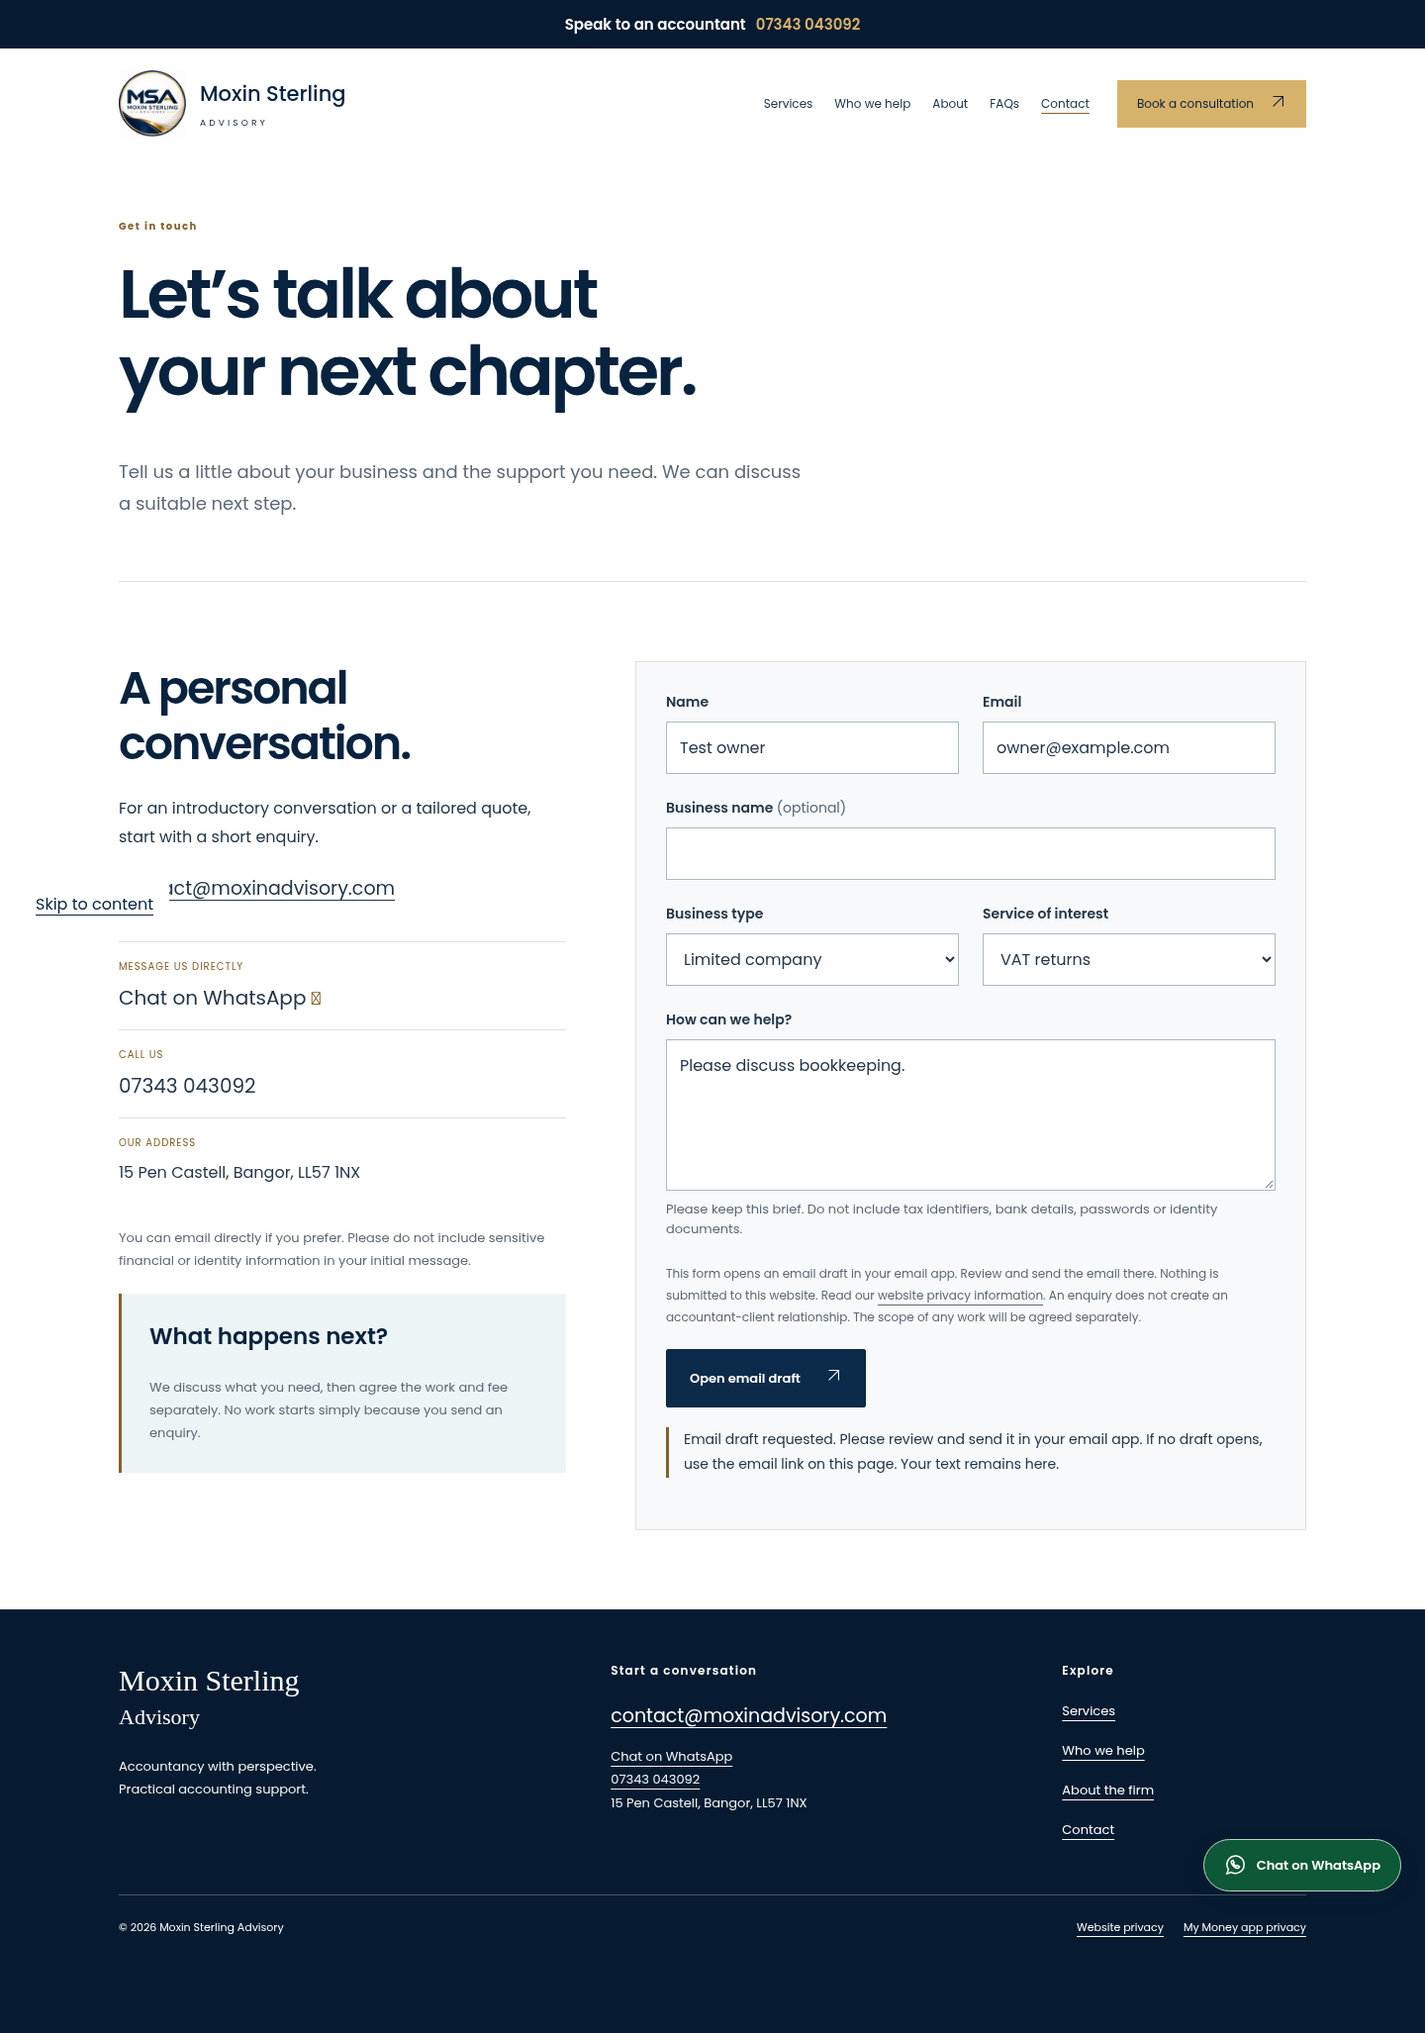
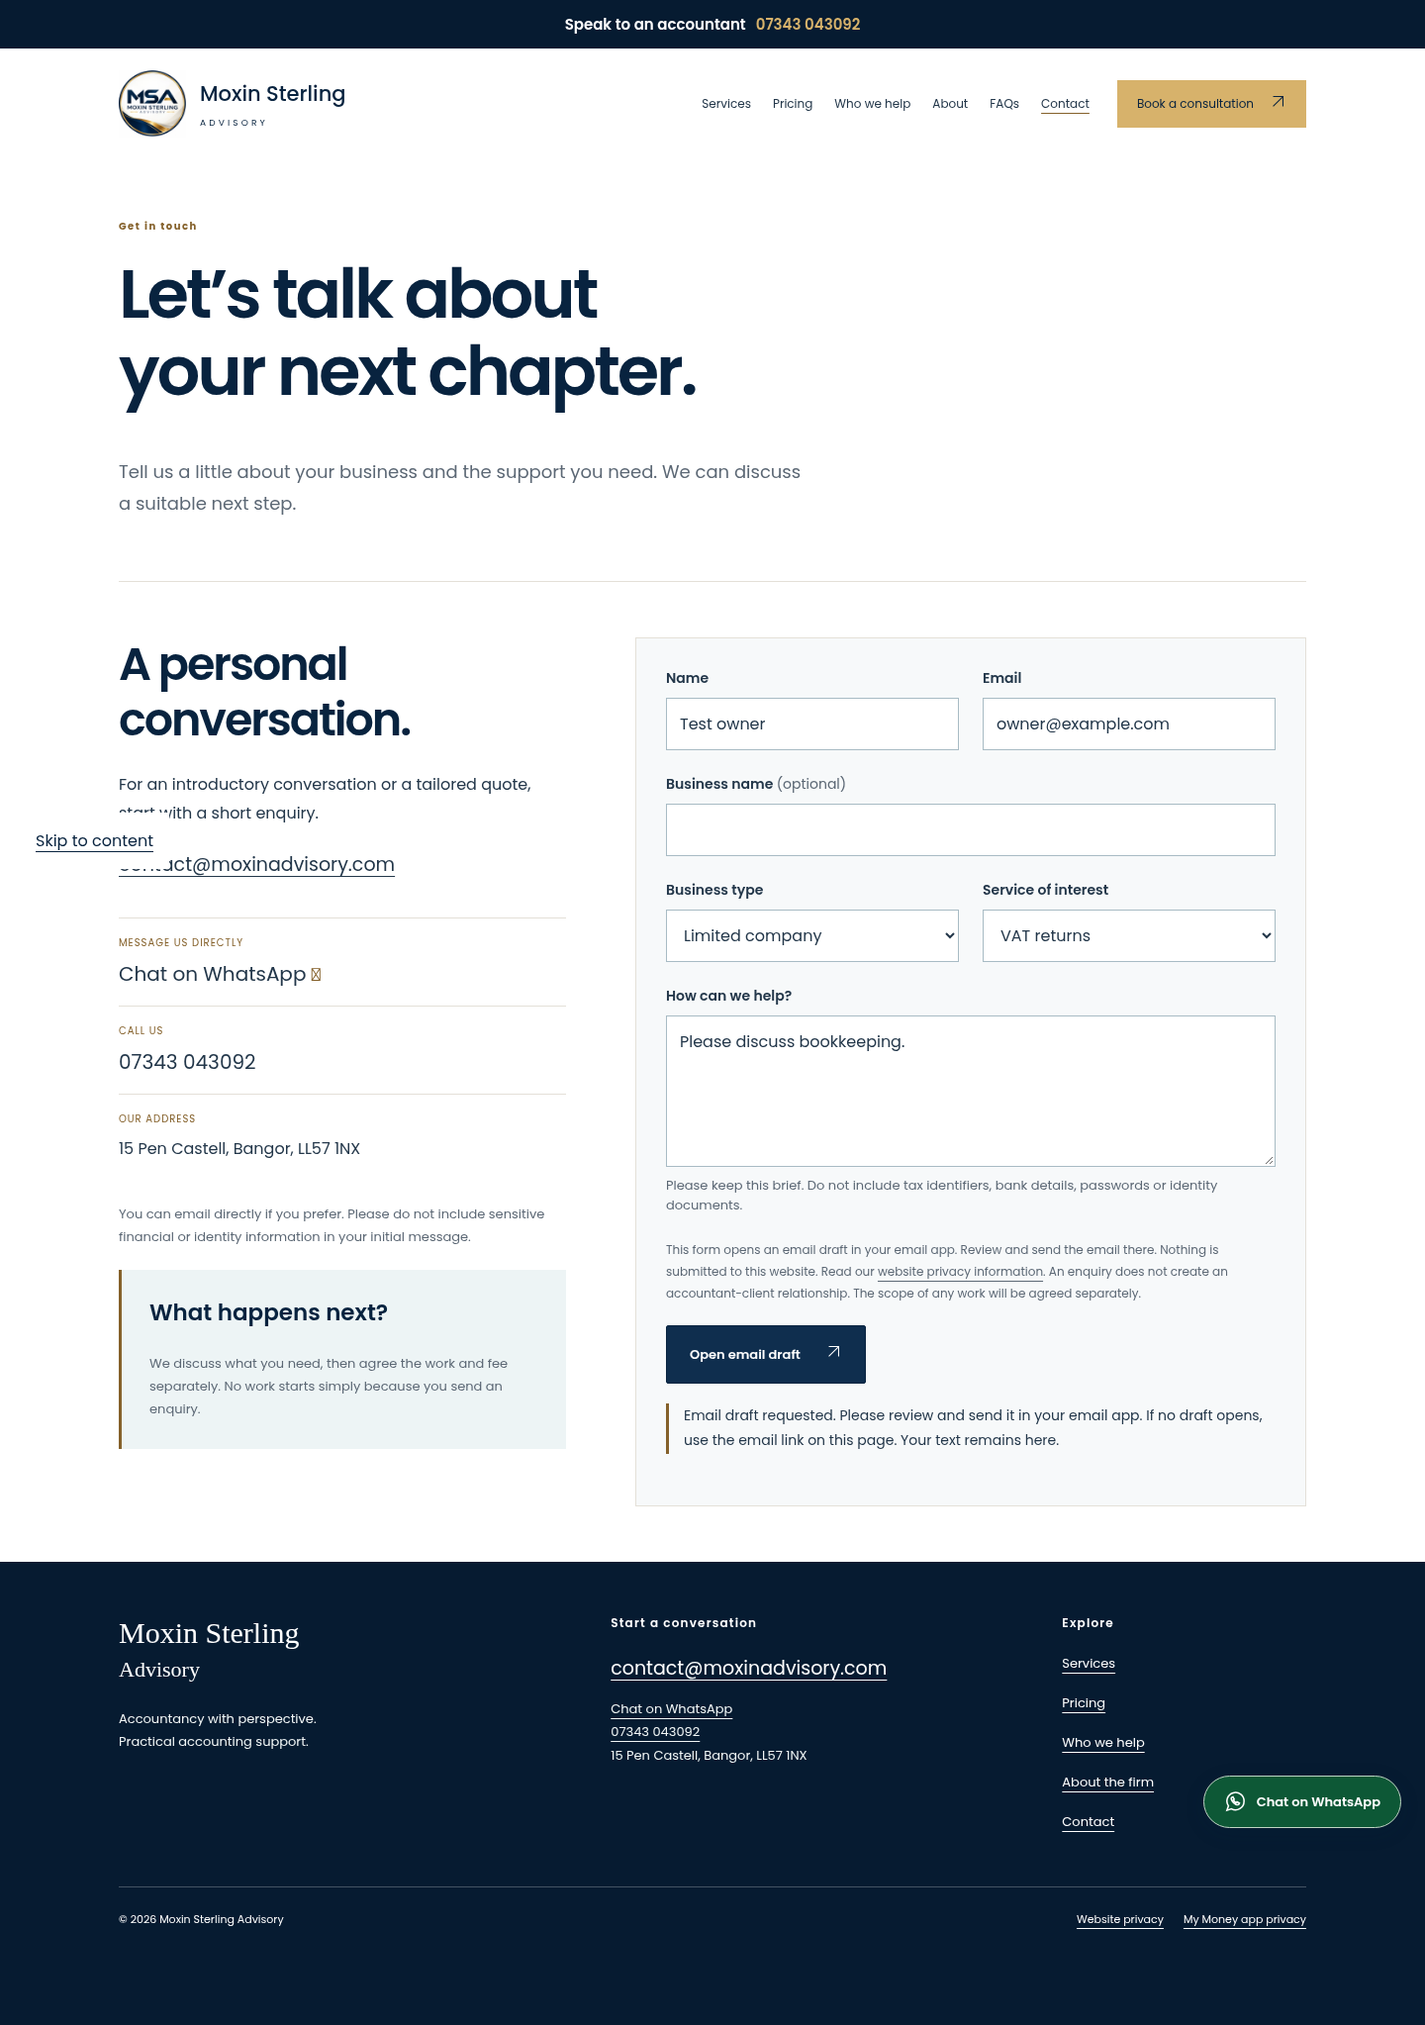
Add affordable starting prices tighten spacing and prepare founder photo integration

diff --git a/src/styles/global.css b/src/styles/global.css
@@ -29,7 +29,7 @@ p, li { line-height: 1.8; }
 p { margin-bottom: 22px; }
 img, svg { max-width: 100%; }
 .container { width: min(1200px, calc(100% - 96px)); margin-inline: auto; }
-.section { padding-block: 80px; }
+.section { padding-block: 56px; }
 .eyebrow { font-size: 10px; letter-spacing: .15em; font-weight: 700; color: var(--teal); margin-bottom: 22px; line-height: 1.6; }
 .contact-bar { background: #061b31; color: white; font-size: 15px; font-weight: 600; }
 .contact-bar .container { display: flex; align-items: center; justify-content: center; gap: 10px; padding-block: 13px; }
@@ -54,7 +54,7 @@ img, svg { max-width: 100%; }
 .new-hero { background: #f7f3eb; color: #08233f; position: relative; overflow: hidden; }
 .hero-grid.container { width: 100%; max-width: 1440px; }
 .hero-grid { display: grid; grid-template-columns: 1fr 1fr; align-items: stretch; position: relative; }
-.hero-copy { padding: 74px 50px 62px; position: relative; overflow: hidden; }
+.hero-copy { padding: 56px 50px 48px; position: relative; overflow: hidden; }
 .hero-copy:before { content: ''; position: absolute; width: 600px; height: 600px; border: 1px solid #b58a4226; border-radius: 50%; left: -270px; top: -250px; pointer-events: none; }
 .hero-copy h1 { position: relative; color: #08233f; font-weight: 700; font-size: clamp(2.6rem,4.2vw,4rem); line-height: 1.17; margin-bottom: 26px; letter-spacing: -.045em; }
 .hero-copy h1 em { color: inherit; font-style: normal; font-weight: inherit; }
@@ -65,7 +65,7 @@ img, svg { max-width: 100%; }
 .hero-phone { color: #08233f; font-size: 12px; text-decoration: none; display: inline-flex; align-items: center; gap: 12px; min-height: 44px; }
 .hero-assurance { display: flex; gap: 18px; flex-wrap: wrap; color: #566575; font-size: 10px; margin-top: 28px; }
 .hero-assurance span:before { content: '✓'; color: #85612b; margin-right: 7px; }
-.brand-scene { display: flex; flex-direction: column; align-items: center; justify-content: center; padding: 55px 30px; min-height: 530px; background: #08233f; position: relative; isolation: isolate; overflow: hidden; }
+.brand-scene { display: flex; flex-direction: column; align-items: center; justify-content: center; padding: 55px 30px; min-height: 460px; background: #08233f; position: relative; isolation: isolate; overflow: hidden; }
 .brand-scene:before { content: ''; position: absolute; width: 550px; height: 550px; border: 75px solid var(--gold); border-radius: 50%; top: -300px; right: -110px; z-index: -1; }
 .brand-scene:after { content: ''; position: absolute; width: 550px; height: 550px; border: 75px solid #23435e; border-radius: 50%; bottom: -390px; left: -200px; z-index: -1; }
 .hero-logo { width: min(70%,295px); height: auto; border-radius: 50%; box-shadow: 0 12px 40px #1112; background: white; }
@@ -76,7 +76,7 @@ img, svg { max-width: 100%; }
 .audience-ribbon .container { display: flex; align-items: center; justify-content: space-between; gap: 24px; padding-block: 25px; }
 .audience-ribbon span { font-size: 9px; letter-spacing: .1em; color: var(--muted); }
 .audience-ribbon strong { font-size: 13px; font-weight: 400; color: var(--navy); }
-.section-head { display: grid; grid-template-columns: 1.2fr 1fr; align-items: end; gap: 80px; margin-bottom: 40px; }
+.section-head { display: grid; grid-template-columns: 1.2fr 1fr; align-items: end; gap: 50px; margin-bottom: 30px; }
 .section-head h2 { margin-bottom: 0; }
 .section-head p { max-width: 450px; color: var(--muted); font-size: 14px; }
 .new-services { display: grid; grid-template-columns: repeat(3, 1fr); gap: 28px; }
@@ -117,7 +117,7 @@ img, svg { max-width: 100%; }
 .process-grid article { border-top: 1px solid var(--border); padding-top: 24px; }
 .process-check { display: flex; width: 44px; height: 44px; align-items: center; justify-content: center; background: #e3f2ef; border-radius: 50%; color: var(--teal); margin-bottom: 20px; }
 .process-grid p { font-size: 14px; color: var(--muted); }
-.faq-section { background: #f4f4ee; padding-block: 65px; }
+.faq-section { background: #f4f4ee; padding-block: 48px; }
 .split { display: grid; grid-template-columns: 1fr 1fr; gap: 80px; align-items: start; }
 .faq-list { border-top: 1px solid #cbd8dd; }
 details { border-bottom: 1px solid #cbd8dd; }
@@ -142,7 +142,7 @@ details p { font-size: 14px; color: var(--muted); padding-right: 20px; }
 .art-growth>span:nth-child(3) { height: 70px; background: #33898f; }
 .art-growth>span:nth-child(4) { height: 95px; background: #126872; }
 .art-tax { color: #4e969e; font-size: 90px; font-weight: 300; }
-.home-contact { padding-block: 65px; background: #f7f5ef; }
+.home-contact { padding-block: 48px; background: #f7f5ef; }
 .home-contact-grid { display: grid; grid-template-columns: 1fr 1fr; gap: 75px; align-items: center; }
 .home-contact p { font-size: 14px; color: var(--muted); }
 .location-panel { background: #f0e9db; padding: 42px; border-left: 3px solid var(--teal); }
@@ -151,7 +151,7 @@ details p { font-size: 14px; color: var(--muted); padding-right: 20px; }
 .location-panel address { font-style: normal; line-height: 1.8; margin-bottom: 20px; }
 .location-panel a { font-size: 13px; display: inline-flex; min-height: 44px; align-items: center; gap: 20px; }
 .contact-direct { display: block; width: fit-content; font-size: 20px; text-decoration: none; min-height: 44px; overflow-wrap: anywhere; max-width: 100%; }
-.invitation { border-top: 4px solid var(--gold); display: flex; align-items: center; justify-content: space-between; gap: 40px; padding-block: 65px; }
+.invitation { border-top: 4px solid var(--gold); display: flex; align-items: center; justify-content: space-between; gap: 40px; padding-block: 48px; }
 .invitation h2 { font-size: 36px; }
 .invitation p { color: var(--muted); max-width: 550px; font-size: 14px; }
 .invitation .button { flex-shrink: 0; }
@@ -234,7 +234,7 @@ textarea { resize: vertical; min-height: 145px; }
 }
 @media(max-width:760px) {
   .container { width: calc(100% - 40px); }
-  .section { padding-block: 48px; }
+  .section { padding-block: 36px; }
   .contact-bar .container { gap: 7px; justify-content: center; font-size: 12px; padding-block: 12px; }
   .header { padding: 14px 20px; flex-wrap: wrap; gap: 14px; }
   .brand { font-size: 21px; gap: 10px; }
@@ -348,3 +348,54 @@ textarea { resize: vertical; min-height: 145px; }
 .google-review-summary p { font-size: 12px; margin-bottom: 8px; }
 .google-review-summary .google-rating { font-size: 18px; color: var(--navy); }
 @media(max-width:760px) { .review-grid { grid-template-columns: 1fr; } .review-card { padding: 24px; } }
+
+.pricing-preview { display: grid; grid-template-columns: 1.4fr 1fr 1fr; align-items: center; gap: 28px; padding-block: 35px; border-top: 1px solid var(--border); }
+.pricing-preview h2 { font-size: 27px; margin-bottom: 12px; }
+.pricing-preview .eyebrow { margin-bottom: 12px; }
+.pricing-preview-fee { text-decoration: none; padding: 22px; background: #f7f3eb; border-left: 3px solid #b58a42; }
+.pricing-preview-fee>span { display: block; font-size: 11px; margin-bottom: 8px; }
+.pricing-preview-fee strong { display: block; font-size: 34px; color: var(--navy); }
+.pricing-preview-fee small { font-size: 12px; font-weight: 400; margin-left: 4px; }
+.pricing-packages { display: grid; grid-template-columns: repeat(3,minmax(0,1fr)); gap: 24px; }
+.pricing-package { display: flex; flex-direction: column; padding: 28px; background: #f7f3eb; border: 1px solid #e5dccb; }
+.pricing-package h3 { font-size: 22px; margin-bottom: 20px; }
+.pricing-from { font-size: 11px; margin-bottom: 5px; color: var(--muted); }
+.pricing-package .pricing-amount { color: var(--navy); font-size: 42px; font-weight: 600; line-height: 1.2; margin-bottom: 6px; letter-spacing: -.04em; }
+.pricing-unit { font-size: 12px; margin-bottom: 25px; }
+.pricing-package>p:not(.pricing-amount) { font-size: 13px; }
+.pricing-detail { color: var(--muted); }
+.pricing-range { border-top: 1px solid #dcd2c0; padding-top: 16px; }
+.pricing-package .button { margin-top: auto; }
+.pricing-featured { background: #08233f; border-color: #08233f; color: #f7f3eb; }
+.pricing-featured h3, .pricing-featured .pricing-amount { color: #fff; }
+.pricing-featured .pricing-detail, .pricing-featured .pricing-from { color: #d3dde6; }
+.pricing-featured .button { background: #d7b26b; color: #08233f; border-color: #d7b26b; }
+.pricing-note { font-size: 12px; color: var(--muted); margin: 20px 0 0; }
+.pricing-services { padding-top: 10px; }
+.fee-list { border-top: 1px solid var(--border); }
+.fee-row { display: grid; grid-template-columns: minmax(0,1fr) 210px; gap: 35px; padding-block: 24px; border-bottom: 1px solid var(--border); }
+.fee-row h3 { font-size: 19px; margin-bottom: 8px; }
+.fee-row p { font-size: 13px; color: var(--muted); margin: 0; max-width: 650px; }
+.fee-amount { text-align: right; }
+.fee-amount strong { color: var(--navy); font-size: 23px; }
+.fee-amount span { display: block; font-size: 12px; margin-top: 6px; }
+.pricing-explanation { margin-top: 28px; background: #f7f3eb; }
+.pricing-explanation p { font-size: 13px; }
+.pricing-explanation p:last-child { margin-bottom: 0; }
+.services-price-link { padding: 28px; background: #f7f3eb; margin-bottom: 20px; }
+.services-price-link h2 { font-size: 28px; }
+.services-price-link p { font-size: 14px; }
+.founder-photo { margin: 0; max-width: 430px; }
+.founder-photo img { display: block; width: 100%; height: auto; border-bottom: 3px solid #b58a42; }
+.founder-photo figcaption { background: #f7f3eb; padding: 20px 24px; }
+.founder-photo figcaption strong { display: block; color: var(--navy); font-size: 22px; }
+.founder-photo figcaption span { display: block; font-size: 11px; color: var(--muted); margin-top: 5px; }
+@media(max-width:1100px) { .header ul { gap: 13px; } .header nav a { font-size: 11px; } .pricing-preview { gap: 18px; } .pricing-preview-fee { padding: 18px; } .pricing-preview-fee strong { font-size: 29px; } .pricing-package { padding: 23px; } }
+@media(max-width:760px) { .pricing-preview { grid-template-columns: repeat(2,minmax(0,1fr)); gap: 12px; padding-block: 28px; } .pricing-preview>div { grid-column: 1/-1; } .pricing-preview h2 { font-size: 25px; } .pricing-preview-fee { padding: 16px 12px; } .pricing-preview-fee strong { font-size: 27px; } .pricing-preview-fee small { font-size: 10px; } .pricing-preview-fee>span { font-size: 10px; } .pricing-packages { grid-template-columns: 1fr; gap: 18px; } .pricing-package { padding: 25px; } .fee-row { grid-template-columns: minmax(0,1fr) 115px; gap: 16px; padding-block: 20px; } .fee-row h3 { font-size: 16px; } .fee-row p { font-size: 12px; } .fee-amount strong { font-size: 18px; } .fee-amount span { font-size: 11px; } .pricing-package .pricing-amount { font-size: 38px; } .services-price-link { padding: 22px; } .founder-photo { max-width: 360px; } .header nav a { font-size: 14px; } }
+@media(max-width:760px) {
+  .fee-amount strong { display: block; font-size: 16px; white-space: nowrap; }
+  .footer-top>div:nth-child(2), .footer-top>div:last-child { grid-column: 1/-1; }
+  .footer .email { font-size: 17px; }
+  .footer-top>div:last-child { display: grid; grid-template-columns: 1fr 1fr; column-gap: 20px; }
+  .footer-top>div:last-child h2 { grid-column: 1/-1; margin-bottom: 12px; }
+}

diff --git a/src/data/pricing.ts b/src/data/pricing.ts
@@ -1,0 +1,14 @@
+export const packages = [
+  { name: 'Sole trader', from: '£30', unit: 'per month', range: '£30–£80 per month', description: 'A starting point for straightforward sole-trader accounting needs.', detail: 'Discuss your records, tax responsibilities and the level of ongoing support you need.' },
+  { name: 'Limited company', from: '£90', unit: 'per month', range: '£90–£250 per month', description: 'Accounting support shaped around your small company.', detail: 'Discuss bookkeeping, company accounts, tax and any payroll or VAT support required.' },
+  { name: 'Tailored support', from: 'Let’s talk', unit: 'a quote for your business', range: 'Priced to the agreed scope', description: 'For growing businesses or more complex accounting needs.', detail: 'Agree a combination of services that reflects your records, reporting needs and priorities.' },
+];
+export const serviceFees = [
+  { name: 'Simple Self Assessment', fee: '£100–£250', unit: 'per return', note: 'For a straightforward personal tax return. Additional income sources or complex circumstances are quoted separately.' },
+  { name: 'Sole-trader accounting package', fee: '£30–£80', unit: 'per month', note: 'Depending on your records and the services agreed.' },
+  { name: 'Small limited-company package', fee: '£90–£250', unit: 'per month', note: 'Depending on transaction volume and the accounting support agreed.' },
+  { name: 'Bookkeeping', fee: '£20–£35', unit: 'per hour', note: 'For day-to-day transaction recording and reconciliations. A fixed monthly fee can also be agreed.' },
+  { name: 'VAT return preparation', fee: '£75–£200', unit: 'per quarter', note: 'Depending on the number of transactions and condition of your records.' },
+  { name: 'Annual accounts & Corporation Tax', fee: '£550–£1,300', unit: 'per year', note: 'For small limited companies. Final scope depends on the business and records provided.' },
+  { name: 'Small payroll', fee: '£20–£50', unit: 'per month', note: 'Depending on employee numbers, pay frequency and payroll requirements.' },
+];

diff --git a/src/config.ts b/src/config.ts
@@ -19,6 +19,7 @@ export const site = {
 };
 export const navigation = [
   { label: "Services", href: "/services/" },
+  { label: "Pricing", href: "/pricing/" },
   { label: "Who we help", href: "/who-we-help/" },
   { label: "About", href: "/about/" },
   { label: "FAQs", href: "/#faqs" },

diff --git a/src/pages/sitemap.xml.ts b/src/pages/sitemap.xml.ts
@@ -4,6 +4,7 @@ export const GET: APIRoute = () => {
   const paths = [
     "/",
     "/services/",
+    "/pricing/",
     "/who-we-help/",
     "/about/",
     "/contact/",

diff --git a/scripts/browser-check.py b/scripts/browser-check.py
@@ -9,7 +9,7 @@ with sync_playwright() as p:
  page=browser.new_page()
  errors=[]
  page.on('pageerror',lambda error:errors.append(str(error)))
- paths=['/','/services/','/who-we-help/','/about/','/contact/','/privacy/','/my-money-privacy/','/services/bookkeeping/','/services/vat/','/services/payroll/','/services/annual-accounts-corporation-tax/','/services/self-assessment/','/services/management-accounts-cash-flow/']
+ paths=['/','/pricing/','/services/','/who-we-help/','/about/','/contact/','/privacy/','/my-money-privacy/','/services/bookkeeping/','/services/vat/','/services/payroll/','/services/annual-accounts-corporation-tax/','/services/self-assessment/','/services/management-accounts-cash-flow/']
  for width in [375,768,1440]:
   page.set_viewport_size({'width':width,'height':950})
   for path in paths:

diff --git a/docs/PRICING-UPDATE.md b/docs/PRICING-UPDATE.md
@@ -1,0 +1,9 @@
+# Pricing and spacing update
+
+Owner requested starting prices, simple Self Assessment at £100–£250/return, lower bookkeeping fees, annual accounts and Corporation Tax at £550–£1,300/year, with the remaining suggested ranges unchanged. Implemented bookkeeping at £20–£35/hour and led with lower starting fees (£30/month sole trader, £90/month limited company). All seven service ranges are in src/data/pricing.ts; the pricing page, homepage preview, services link, header/footer navigation and sitemap use the new pricing route.
+
+The pricing page describes guide fees, case-by-case package scope, no automatic double charging, and total payable confirmed in the quote including applicable VAT/software. VAT registration and whether the business intends these figures to include VAT/software have not been confirmed; no tax status has been invented.
+
+Reduced general section spacing and hero padding. Updated founder introduction on About, leaving the previously removed homepage founder section absent. The photo visible in chat is not available as a downloadable file in the workspace or GitHub. Save the original as public/founder.jpg (or .png/.jpeg/.webp); FounderPhoto.astro then uses it on the next build. The fallback is initials, not a fabricated photograph.
+
+Validation: Astro check passed with no errors/warnings/hints; 15-page build passed; existing browser suite passed on 14 normal pages at 375, 768 and 1440 pixels. Pricing assertions verified 3 package cards and all 7 fees at six widths (320, 375, 430, 768, 1024 and 1440). Pricing-page automated WCAG A/AA checks passed on phone and desktop. Source is saved separately from production; no publication claimed.
